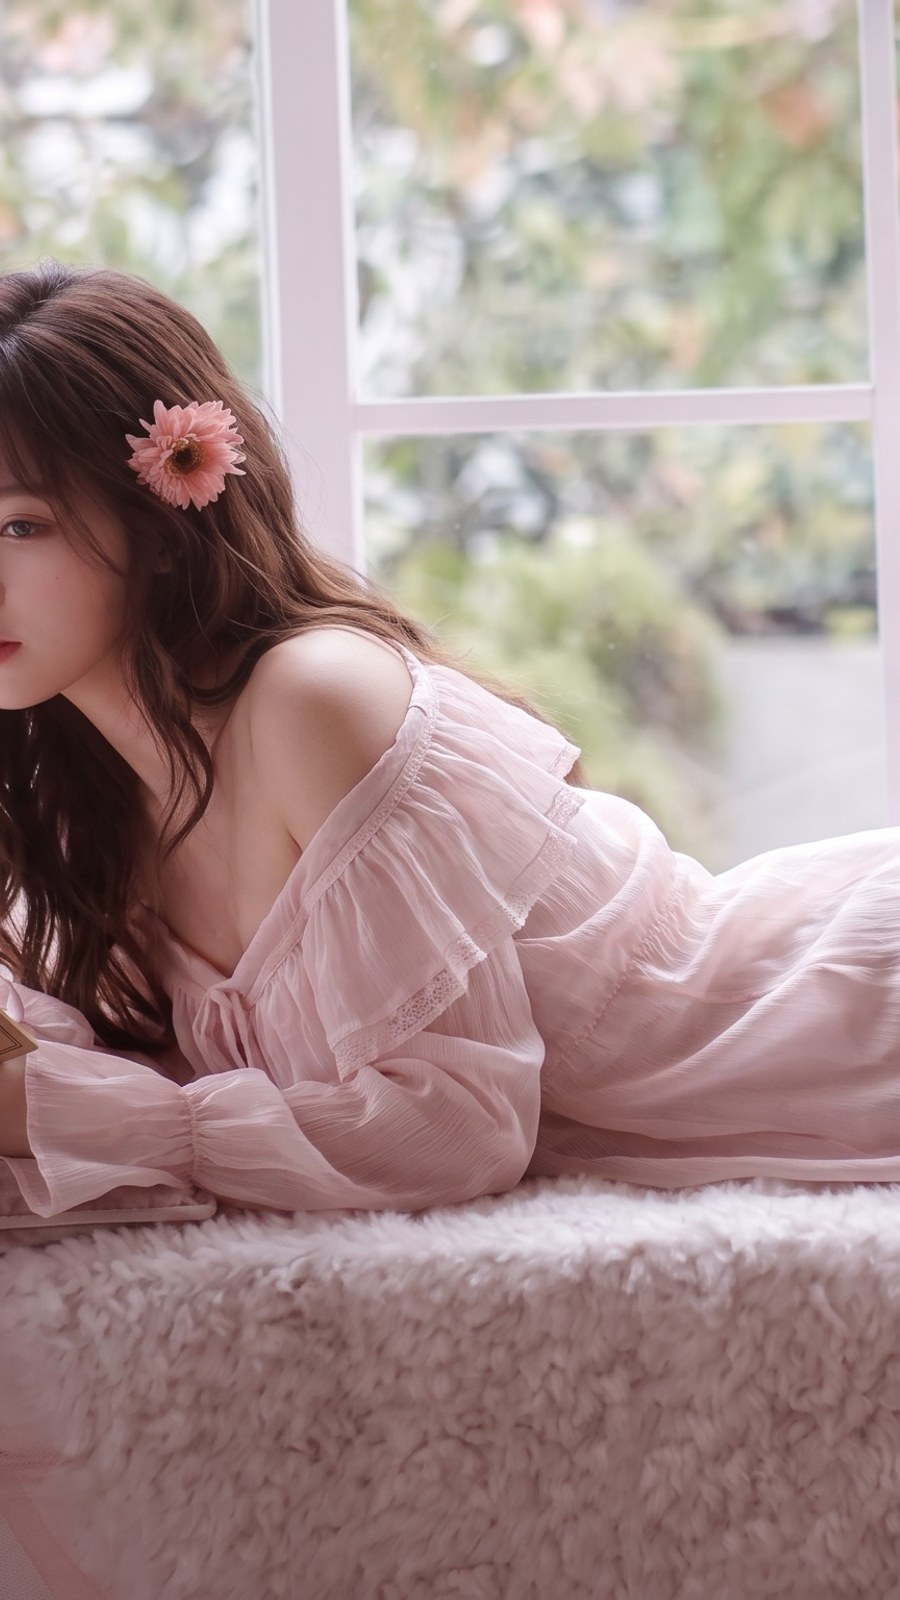
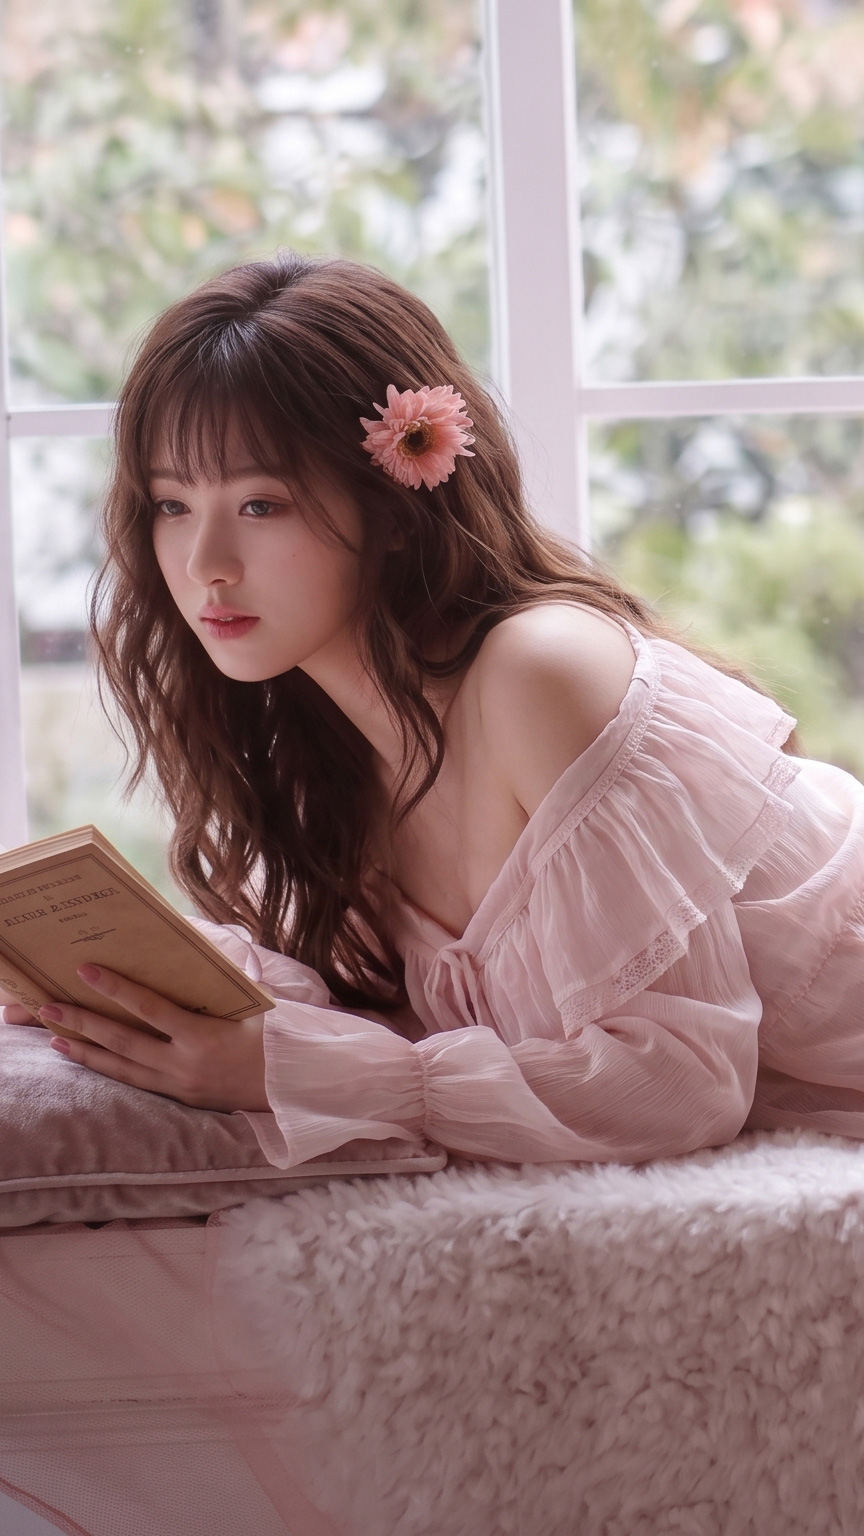
feat(header): luxuryテーマ用のナビゲーションリンクを追加し、スタイルを調整 feat(styles): モバイルドロワー用のボタンと背景スタイルを追加 chore(images): specialgradeヒーロー画像を更新し、不要な画像を削除

diff --git a/components/store/Header.tsx b/components/store/Header.tsx
@@ -59,6 +59,64 @@ export const Header: React.FC<HeaderProps> = ({ store }) => {
     { label: '求人情報', subLabel: 'セラピスト募集・採用', href: `${basePath}/recruit`, code: '07' },
   ];
 
+  // luxuryテーマ専用: 英語メイン+日本語サブ表記、左に金の線画アイコン
+  const luxuryNavLinks = [
+    {
+      en: 'TOP', ja: 'トップページ', href: basePath || '/',
+      icon: (
+        <svg viewBox="0 0 24 24" fill="none" stroke="currentColor" strokeWidth="1.3" strokeLinecap="round" strokeLinejoin="round">
+          <path d="M3 11.5 12 4l9 7.5" />
+          <path d="M5.5 10v9a1 1 0 0 0 1 1H10v-5.5a1 1 0 0 1 1-1h2a1 1 0 0 1 1 1V20h3.5a1 1 0 0 0 1-1v-9" />
+        </svg>
+      ),
+    },
+    {
+      en: 'System & Price', ja: 'システム・料金', href: `${basePath}/system`,
+      icon: (
+        <svg viewBox="0 0 24 24" fill="none" stroke="currentColor" strokeWidth="1.3" strokeLinecap="round" strokeLinejoin="round">
+          <path d="M12.5 3.5H20a.5.5 0 0 1 .5.5v7.5a1 1 0 0 1-.3.7l-8.5 8.5a1 1 0 0 1-1.4 0l-7.5-7.5a1 1 0 0 1 0-1.4l8.5-8.5a1 1 0 0 1 .7-.3Z" />
+          <circle cx="16" cy="8" r="1.4" />
+        </svg>
+      ),
+    },
+    {
+      en: 'Therapist', ja: 'セラピスト一覧', href: `${basePath}/therapists`,
+      icon: (
+        <svg viewBox="0 0 24 24" fill="none" stroke="currentColor" strokeWidth="1.3" strokeLinecap="round" strokeLinejoin="round">
+          <circle cx="12" cy="8" r="3.5" />
+          <path d="M4.5 20c0-3.6 3.4-6.5 7.5-6.5s7.5 2.9 7.5 6.5" />
+        </svg>
+      ),
+    },
+    {
+      en: 'Schedule', ja: '出勤スケジュール', href: `${basePath}/schedule`,
+      icon: (
+        <svg viewBox="0 0 24 24" fill="none" stroke="currentColor" strokeWidth="1.3" strokeLinecap="round" strokeLinejoin="round">
+          <rect x="3.5" y="5" width="17" height="15" rx="1.5" />
+          <path d="M3.5 9.5h17M8 3v4M16 3v4" />
+        </svg>
+      ),
+    },
+    {
+      en: 'Access', ja: 'アクセス', href: `${basePath}/access`,
+      icon: (
+        <svg viewBox="0 0 24 24" fill="none" stroke="currentColor" strokeWidth="1.3" strokeLinecap="round" strokeLinejoin="round">
+          <path d="M12 21.5s7-6.6 7-12A7 7 0 0 0 5 9.5c0 5.4 7 12 7 12Z" />
+          <circle cx="12" cy="9.5" r="2.3" />
+        </svg>
+      ),
+    },
+    {
+      en: 'Recruitment Info', ja: '求人情報', href: `${basePath}/recruit`,
+      icon: (
+        <svg viewBox="0 0 24 24" fill="none" stroke="currentColor" strokeWidth="1.3" strokeLinecap="round" strokeLinejoin="round">
+          <rect x="3.5" y="7.5" width="17" height="12" rx="1.5" />
+          <path d="M8.5 7.5V6a2 2 0 0 1 2-2h3a2 2 0 0 1 2 2v1.5M3.5 13h17" />
+        </svg>
+      ),
+    },
+  ];
+
   const primaryColor = store.themeColor?.primary || '#d1b464';
   const isCyberTheme = store.slug === 'onyankospa';
   const isLuxuryTheme = store.slug === 'specialgrade';
@@ -313,7 +371,9 @@ export const Header: React.FC<HeaderProps> = ({ store }) => {
 
       {/* ドロワーメニュー (透明感のあるシースルーガラス) */}
       <div
-        className={`fixed inset-y-0 right-0 z-[100] w-full max-w-xs sm:max-w-sm ${isLuxuryTheme ? 'lg:max-w-md' : 'lg:hidden'} flex flex-col justify-between p-6 overflow-y-auto transition-transform duration-300 ease-out transform ${
+        className={`fixed inset-y-0 right-0 z-[100] flex flex-col justify-between p-6 overflow-y-auto transition-transform duration-300 ease-out transform ${
+          isLuxuryTheme ? 'w-[82%] sm:max-w-sm lg:max-w-md' : 'w-full max-w-xs sm:max-w-sm lg:hidden'
+        } ${
           isOpen
             ? `translate-x-0 ${isCyberTheme ? 'shadow-[-20px_0_60px_rgba(255,111,181,0.5)]' : 'shadow-[-12px_0_40px_rgba(226,179,177,0.18)]'}`
             : 'translate-x-full shadow-none'
@@ -353,7 +413,7 @@ export const Header: React.FC<HeaderProps> = ({ store }) => {
             ) : isLuxuryTheme ? (
               <button
                 onClick={() => setIsOpen(false)}
-                className="p-1 text-4xl leading-none font-luxury-display font-light text-[#8a7e7c] hover:text-[#c5a059] transition-colors duration-300"
+                className="w-9 h-9 flex items-center justify-center rounded-full border border-[#c5a059]/35 text-2xl leading-none font-luxury-display font-light text-[#8a7e7c] hover:text-[#c5a059] hover:border-[#c5a059] hover:bg-white/50 transition-all duration-300"
                 aria-label="閉じる"
               >
                 ×
@@ -374,17 +434,26 @@ export const Header: React.FC<HeaderProps> = ({ store }) => {
 
           {/* ナビゲーションリンク一覧 */}
           {isLuxuryTheme ? (
-            <div className="flex flex-col divide-y divide-[#e2b3b1]/25">
-              {navLinks.map((link, idx) => (
+            <div className="flex flex-col divide-y divide-dashed divide-[#c5a059]/35">
+              {luxuryNavLinks.map((link, idx) => (
                 <Link
                   key={link.href}
                   href={link.href}
                   style={{ animationDelay: isOpen ? `${idx * 40}ms` : '0ms' }}
                   onClick={() => setIsOpen(false)}
-                  className={`group relative flex items-center justify-center py-4 font-luxury-display italic font-semibold text-lg tracking-[0.1em] text-[#241f1e] transition-colors duration-400 hover:text-[#c5a059] ${isOpen ? 'cyber-link-anim' : ''}`}
+                  className={`group relative flex items-center gap-3.5 py-3.5 transition-colors duration-400 ${isOpen ? 'cyber-link-anim' : ''}`}
                 >
-                  <span>{link.label}</span>
-                  <span className="absolute bottom-2.5 left-1/2 -translate-x-1/2 w-0 h-px bg-[#c5a059] transition-all duration-500 group-hover:w-8" />
+                  <span className="w-5 h-5 shrink-0 text-[#c5a059] transition-transform duration-400 group-hover:scale-110">
+                    {link.icon}
+                  </span>
+                  <span className="flex flex-col leading-tight">
+                    <span className="font-luxury-display italic font-semibold text-base tracking-[0.06em] text-[#241f1e] group-hover:text-[#c5a059] transition-colors duration-400">
+                      {link.en}
+                    </span>
+                    <span className="text-[10px] text-[#8a7e7c] tracking-[0.1em] mt-0.5">
+                      {link.ja}
+                    </span>
+                  </span>
                 </Link>
               ))}
             </div>
@@ -447,7 +516,7 @@ export const Header: React.FC<HeaderProps> = ({ store }) => {
                     isCyberTheme
                       ? 'border-[#ff6fb5]/40 text-[#ded1ee] hover:border-[#ff6fb5] hover:text-white hover:bg-[#ff6fb5]/20'
                       : isLuxuryTheme
-                      ? 'border-[#e2b3b1]/45 text-[#4a3e3d] hover:border-[#c5a059] hover:text-[#c5a059] hover:bg-white hover:shadow-[0_0_15px_rgba(226,179,177,0.3)]'
+                      ? 'border-[#c5a059]/50 text-[#c5a059] hover:border-[#c5a059] hover:bg-white hover:shadow-[0_0_15px_rgba(197,160,89,0.3)]'
                       : 'border-stone-300 text-stone-600 hover:border-stone-500 hover:bg-stone-50'
                   }`}
                 >
@@ -478,7 +547,7 @@ export const Header: React.FC<HeaderProps> = ({ store }) => {
               isCyberTheme
                 ? 'font-extrabold rounded-full neon-glow-btn bg-gradient-to-r from-[#ff6fb5] via-[#ff9fdd] to-[#cf82d8] shadow-[0_0_20px_rgba(255,111,181,0.6)]'
                 : isLuxuryTheme
-                ? 'font-medium tracking-[0.15em] rounded-full luxury-gold-btn shadow-md'
+                ? 'font-medium tracking-[0.15em] rounded-full luxury-gold-gradient-btn'
                 : 'font-extrabold rounded-xl shadow-md bg-gradient-to-r from-[#d1b464] to-[#a39573]'
             }`}
           >

diff --git a/app/globals.css b/app/globals.css
@@ -1040,6 +1040,21 @@ input[type="time"]::-webkit-datetime-edit {
   box-shadow: 0 8px 22px rgba(43, 40, 39, 0.22);
 }
 
+/* モバイルドロワー最下部専用: ゴールド/ブラウン系グラデーションの視認性重視ボタン
+   (.luxury-gold-btnは色なしトライアル中のため、ここだけ独立したクラスにする) */
+.luxury-gold-gradient-btn {
+  background: linear-gradient(135deg, var(--luxury-gold-soft) 0%, var(--luxury-gold) 45%, var(--luxury-bronze) 100%);
+  color: #ffffff !important;
+  box-shadow: 0 6px 18px rgba(197, 160, 89, 0.4);
+  transition: filter 0.4s ease, transform 0.4s ease, box-shadow 0.4s ease;
+}
+
+.luxury-gold-gradient-btn:hover {
+  filter: brightness(1.08);
+  transform: translateY(-2px);
+  box-shadow: 0 8px 24px rgba(197, 160, 89, 0.5);
+}
+
 /* 副次的なボタン：細いゴールド/ローズ枠 + 上品なアウトラインボタン */
 .luxury-outline-btn {
   background: rgba(255, 255, 255, 0.7);
@@ -1075,11 +1090,13 @@ input[type="time"]::-webkit-datetime-edit {
   background: linear-gradient(90deg, transparent, var(--luxury-rose), var(--luxury-gold), transparent);
 }
 
-/* モバイルドロワー用: 半透明ダスティローズ+微細ノイズで奥行きを出す */
+/* モバイルドロワー用: 薄いピンク〜ベージュのグラデーション+微細ノイズ(和紙・リネン調)で奥行きを出す */
 .luxury-drawer-bg {
   background-color: rgba(239, 216, 213, 0.95);
-  background-image: var(--luxury-noise);
-  background-size: 180px 180px;
+  background-image:
+    var(--luxury-noise),
+    linear-gradient(165deg, rgba(253, 248, 245, 0.95) 0%, rgba(239, 216, 213, 0.95) 55%, rgba(226, 179, 177, 0.9) 100%);
+  background-size: 180px 180px, auto;
 }
 
 
